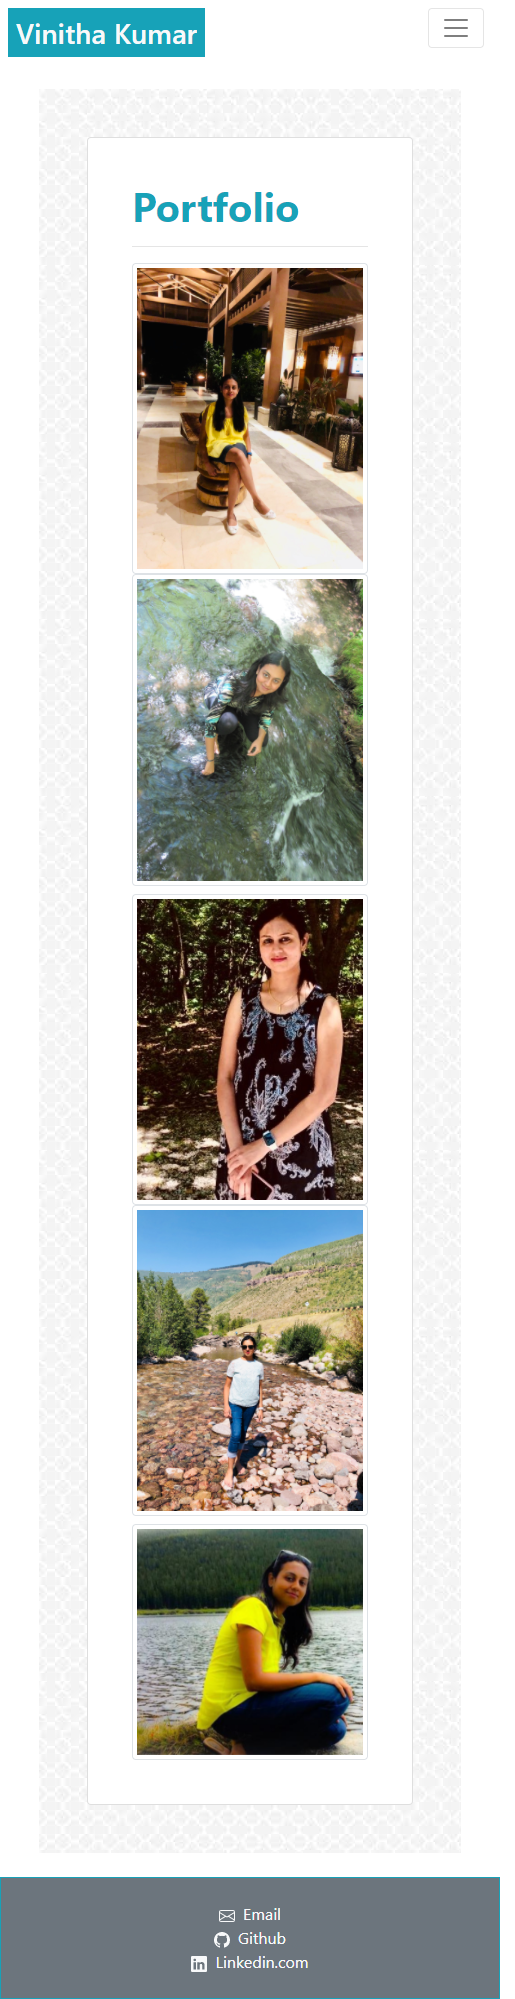
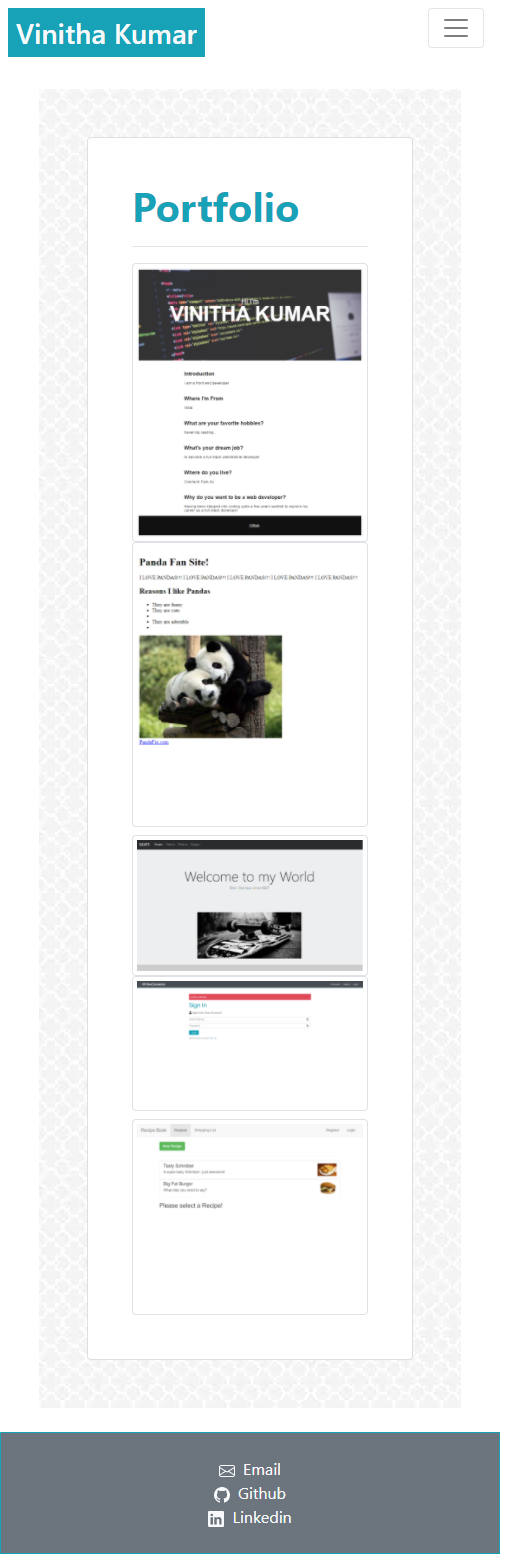
modified portfolio images

diff --git a/portfolio.html b/portfolio.html
@@ -44,23 +44,23 @@
            <hr>
            <div class= "row">
             <div class="col-md-6 col-sm-12">
-              <img src="assets/images/Yellow.JPG" class="img-fluid img-thumbnail portfolio" height="350px" width="350px">
+              <img src="assets/images/prework.png" class="img-fluid img-thumbnail portfolio" height="350px" width="350px">
             </div>
             <div class="col-md-6 col-sm-12">
-              <img src="assets/images/Green.JPG" class="img-fluid img-thumbnail portfolio " height="350px" width="350px">
+              <img src="assets/images/prework1.png" class="img-fluid img-thumbnail portfolio " height="350px" width="350px">
            </div>
           </div>
               <div class="row mt-2">
             <div class="col-md-6 col-sm-12">
-              <img src="assets/images/Black.JPG" class="img-fluid img-thumbnail portfolio" height="350px" width="350px">
+              <img src="assets/images/skate.png" class="img-fluid img-thumbnail portfolio" height="350px" width="350px">
             </div>
             <div class="col-md-6 col-sm-12">
-              <img src="assets/images/Colorado1.JPG" class="img-fluid img-thumbnail portfolio" height="350px" width="350px">
+              <img src="assets/images/devcon.png" class="img-fluid img-thumbnail portfolio" height="350px" width="350px">
           </div>
            </div>
            <div class="row mt-2">
             <div class="col-md-12 col-sm-12">
-              <img src="assets/images/Colorado2.JPG" class="img-fluid img-thumbnail portfolio" height="350px" width="350px">
+              <img src="assets/images/recipe-angular.png" class="img-fluid img-thumbnail portfolio" height="350px" width="350px">
             </div>
            </div>
          </div>
